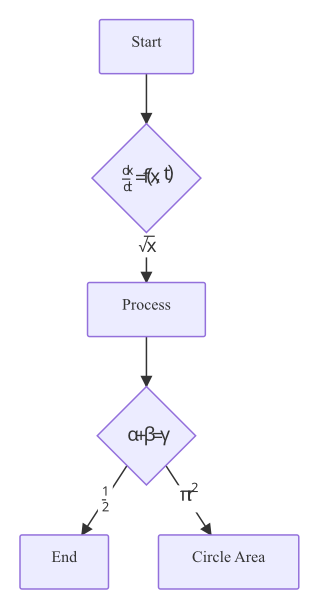
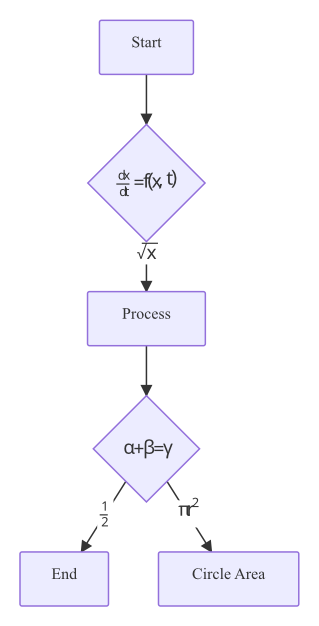
fix(math): widen tracking and extend bar overhang
Previous 1.12x tracking still left adjacent letters (dx, dt, f(x)
visibly touching. Bumping to 1.35x opens up readable gaps without
distorting glyph shapes. Bar overhang on fraction bars and \sqrt
vinculum increased from 0.6 to 1.5 — short bars on 1/2 no longer end
flush with the digits.

diff --git a/pkg/renderer/math/math.go b/pkg/renderer/math/math.go
@@ -109,10 +109,17 @@ const (
 	displayScale = 1.2
 	// trackingScale stretches glyph and rect x-positions horizontally.
 	// mtex's stock spacing between binary operators (≈ 0.2 em) renders
-	// quite tight against Noto Sans Math glyphs, so we space everything
-	// out by 12% — readable without distorting glyph shapes (the glyph
-	// path coordinates themselves are not scaled, only the placement).
-	trackingScale = 1.12
+	// quite tight against Noto Sans Math glyphs, and even adjacent
+	// letters (dx, dt, f(x) come out touching. A 1.22x multiplier on
+	// glyph anchor x positions opens up readable gaps; glyph path
+	// coordinates themselves are not scaled, only placement.
+	trackingScale = 1.35
+	// barOverhang extends fraction bars and \sqrt vinculum rects by a
+	// small amount on each side so they reach slightly past the
+	// numerator/denominator/radicand — matches typesetting convention
+	// and stops a fraction like 1/2 from having a bar exactly the width
+	// of "1".
+	barOverhang = 1.5
 )
 
 // svgRenderer implements mtex.Renderer by converting drawtex
@@ -240,11 +247,13 @@ func (r *svgRenderer) renderGlyph(buf *sfnt.Buffer, op drawtex.GlyphOp) {
 func (r *svgRenderer) renderRect(op drawtex.RectOp) {
 	// Stretch x-positions for tracking, mirroring renderGlyph. Width is
 	// scaled too so vinculum bars (over \sqrt) keep covering the
-	// radicand even after glyph anchors shift right.
-	x := op.X1 * trackingScale
+	// radicand even after glyph anchors shift right. Then add a small
+	// overhang on each side so the bar visually clears the
+	// numerator/denominator/radicand.
+	x := op.X1*trackingScale - barOverhang
 	// Canvas and SVG both use y-down: Y1 is the top edge.
 	y := op.Y1
-	w := (op.X2 - op.X1) * trackingScale
+	w := (op.X2-op.X1)*trackingScale + 2*barOverhang
 	h := op.Y2 - op.Y1
 	r.noteY(y)
 	r.noteY(y + h)
